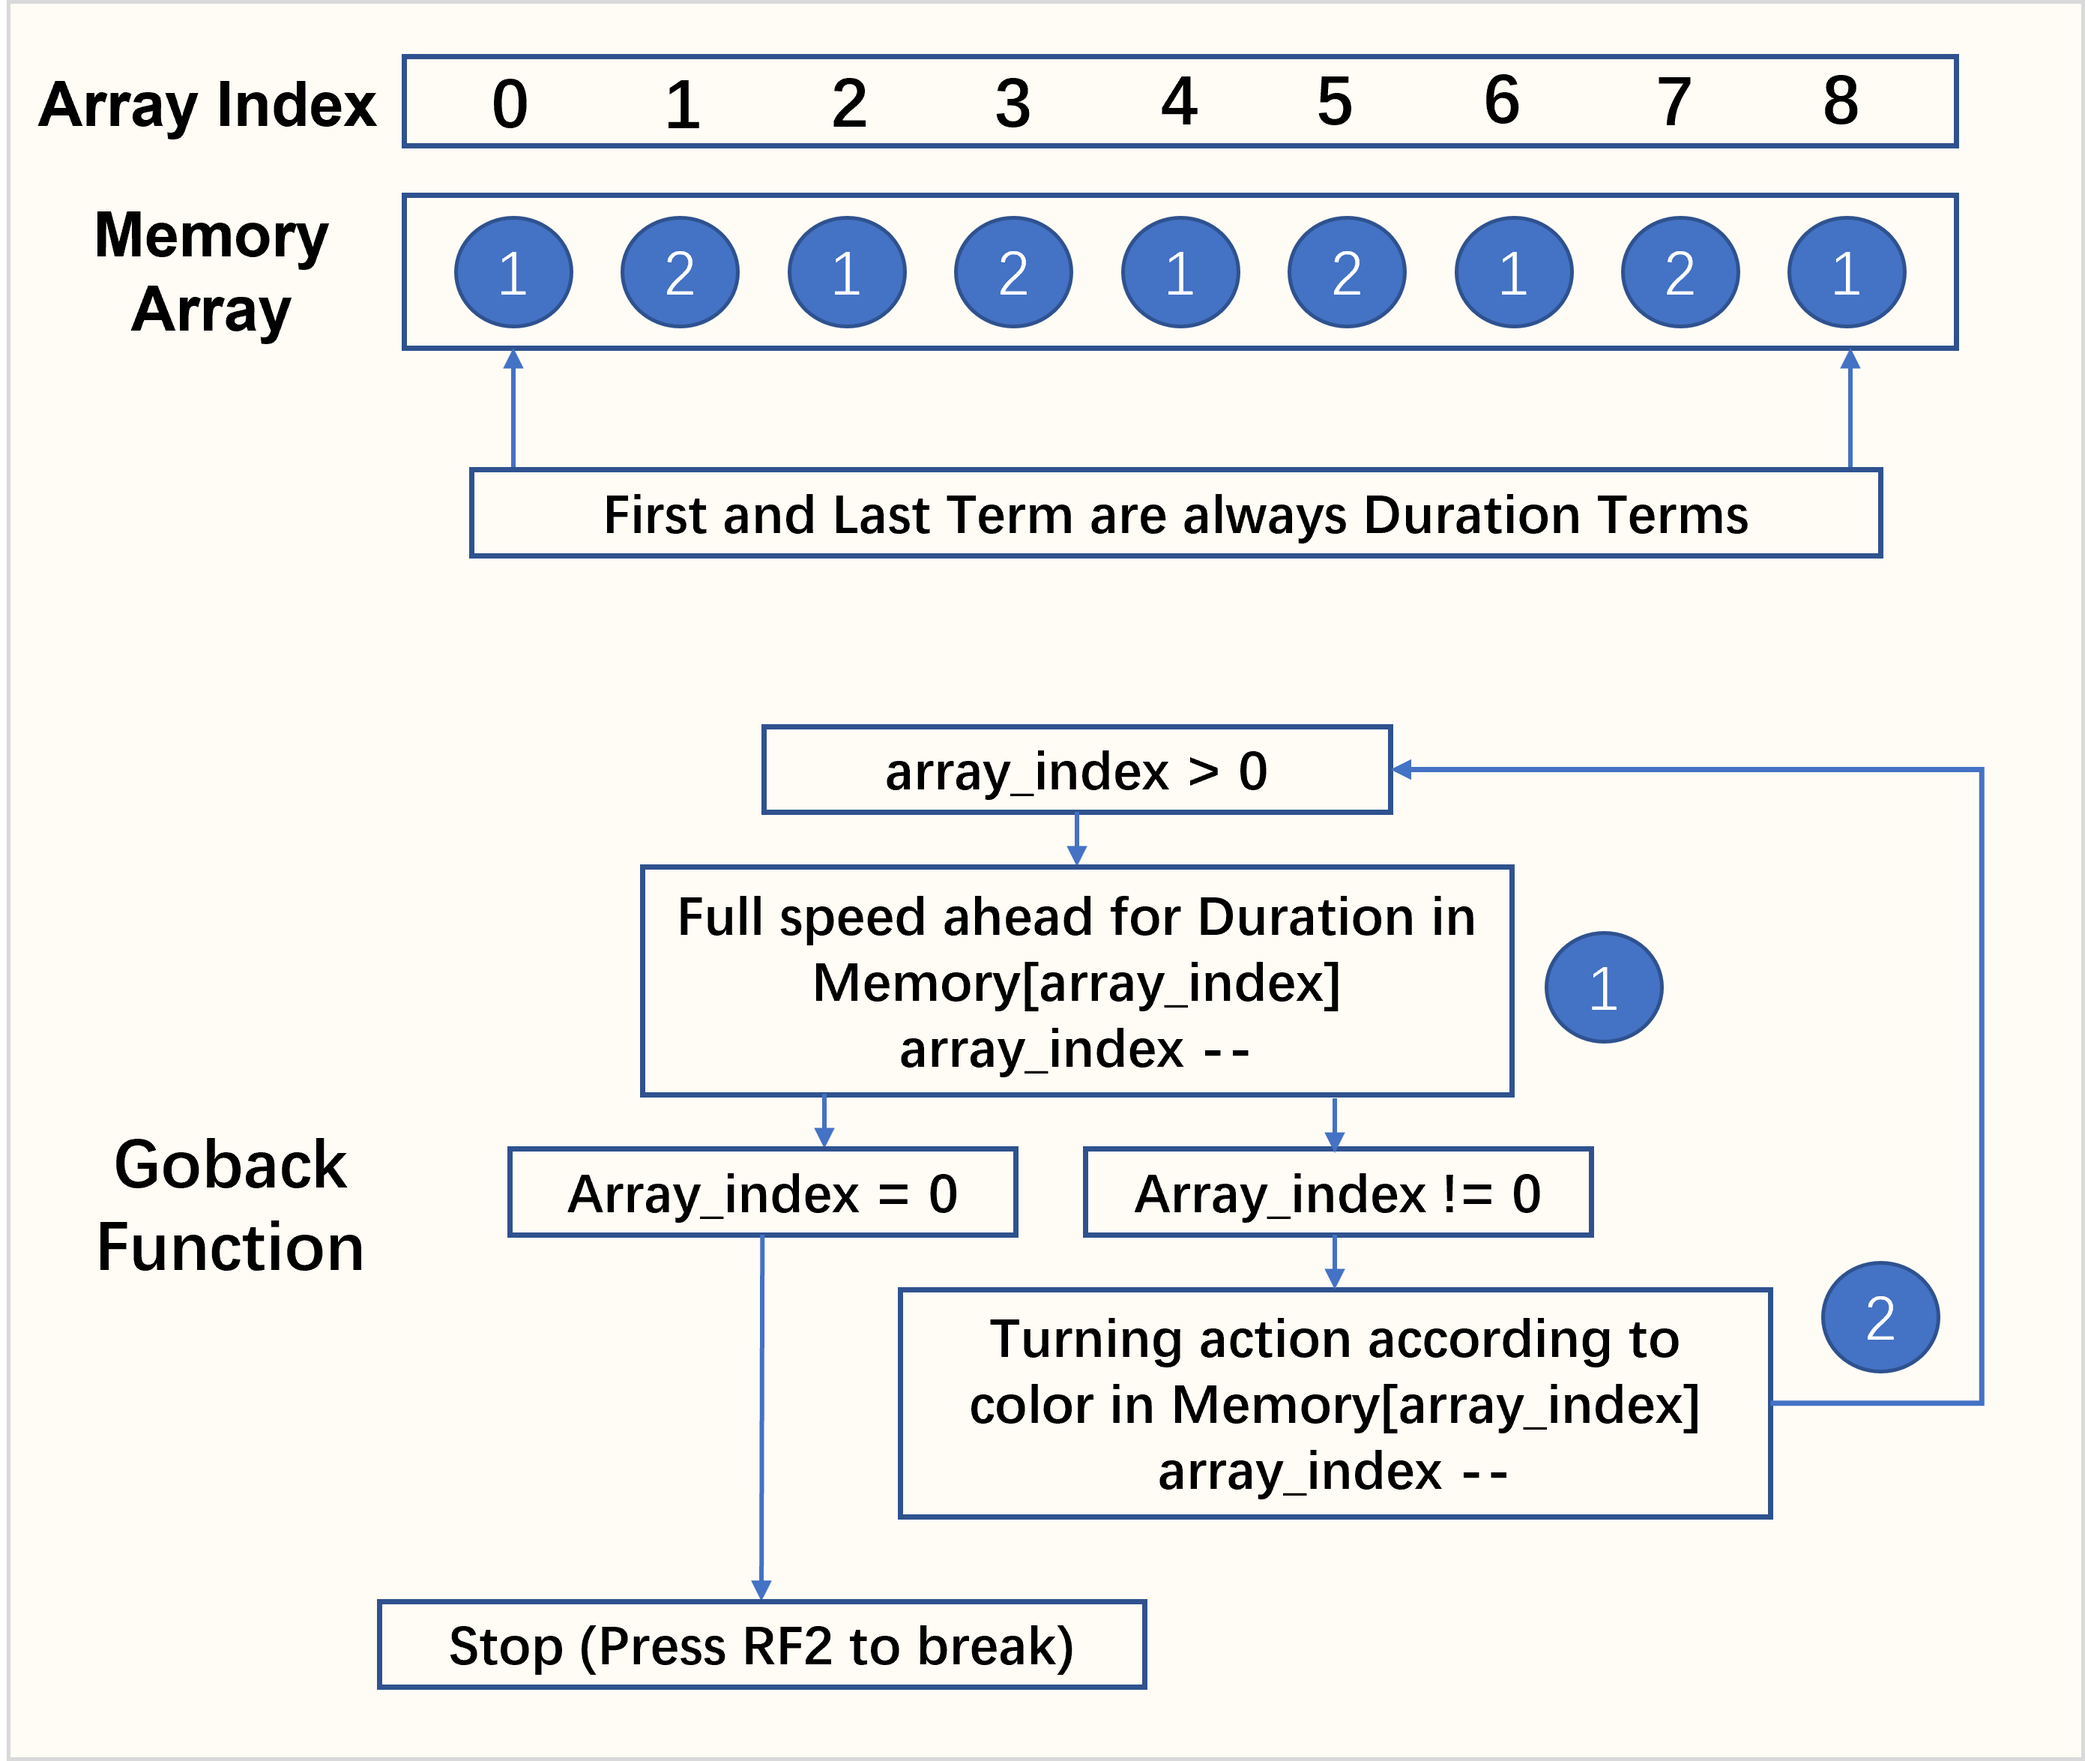
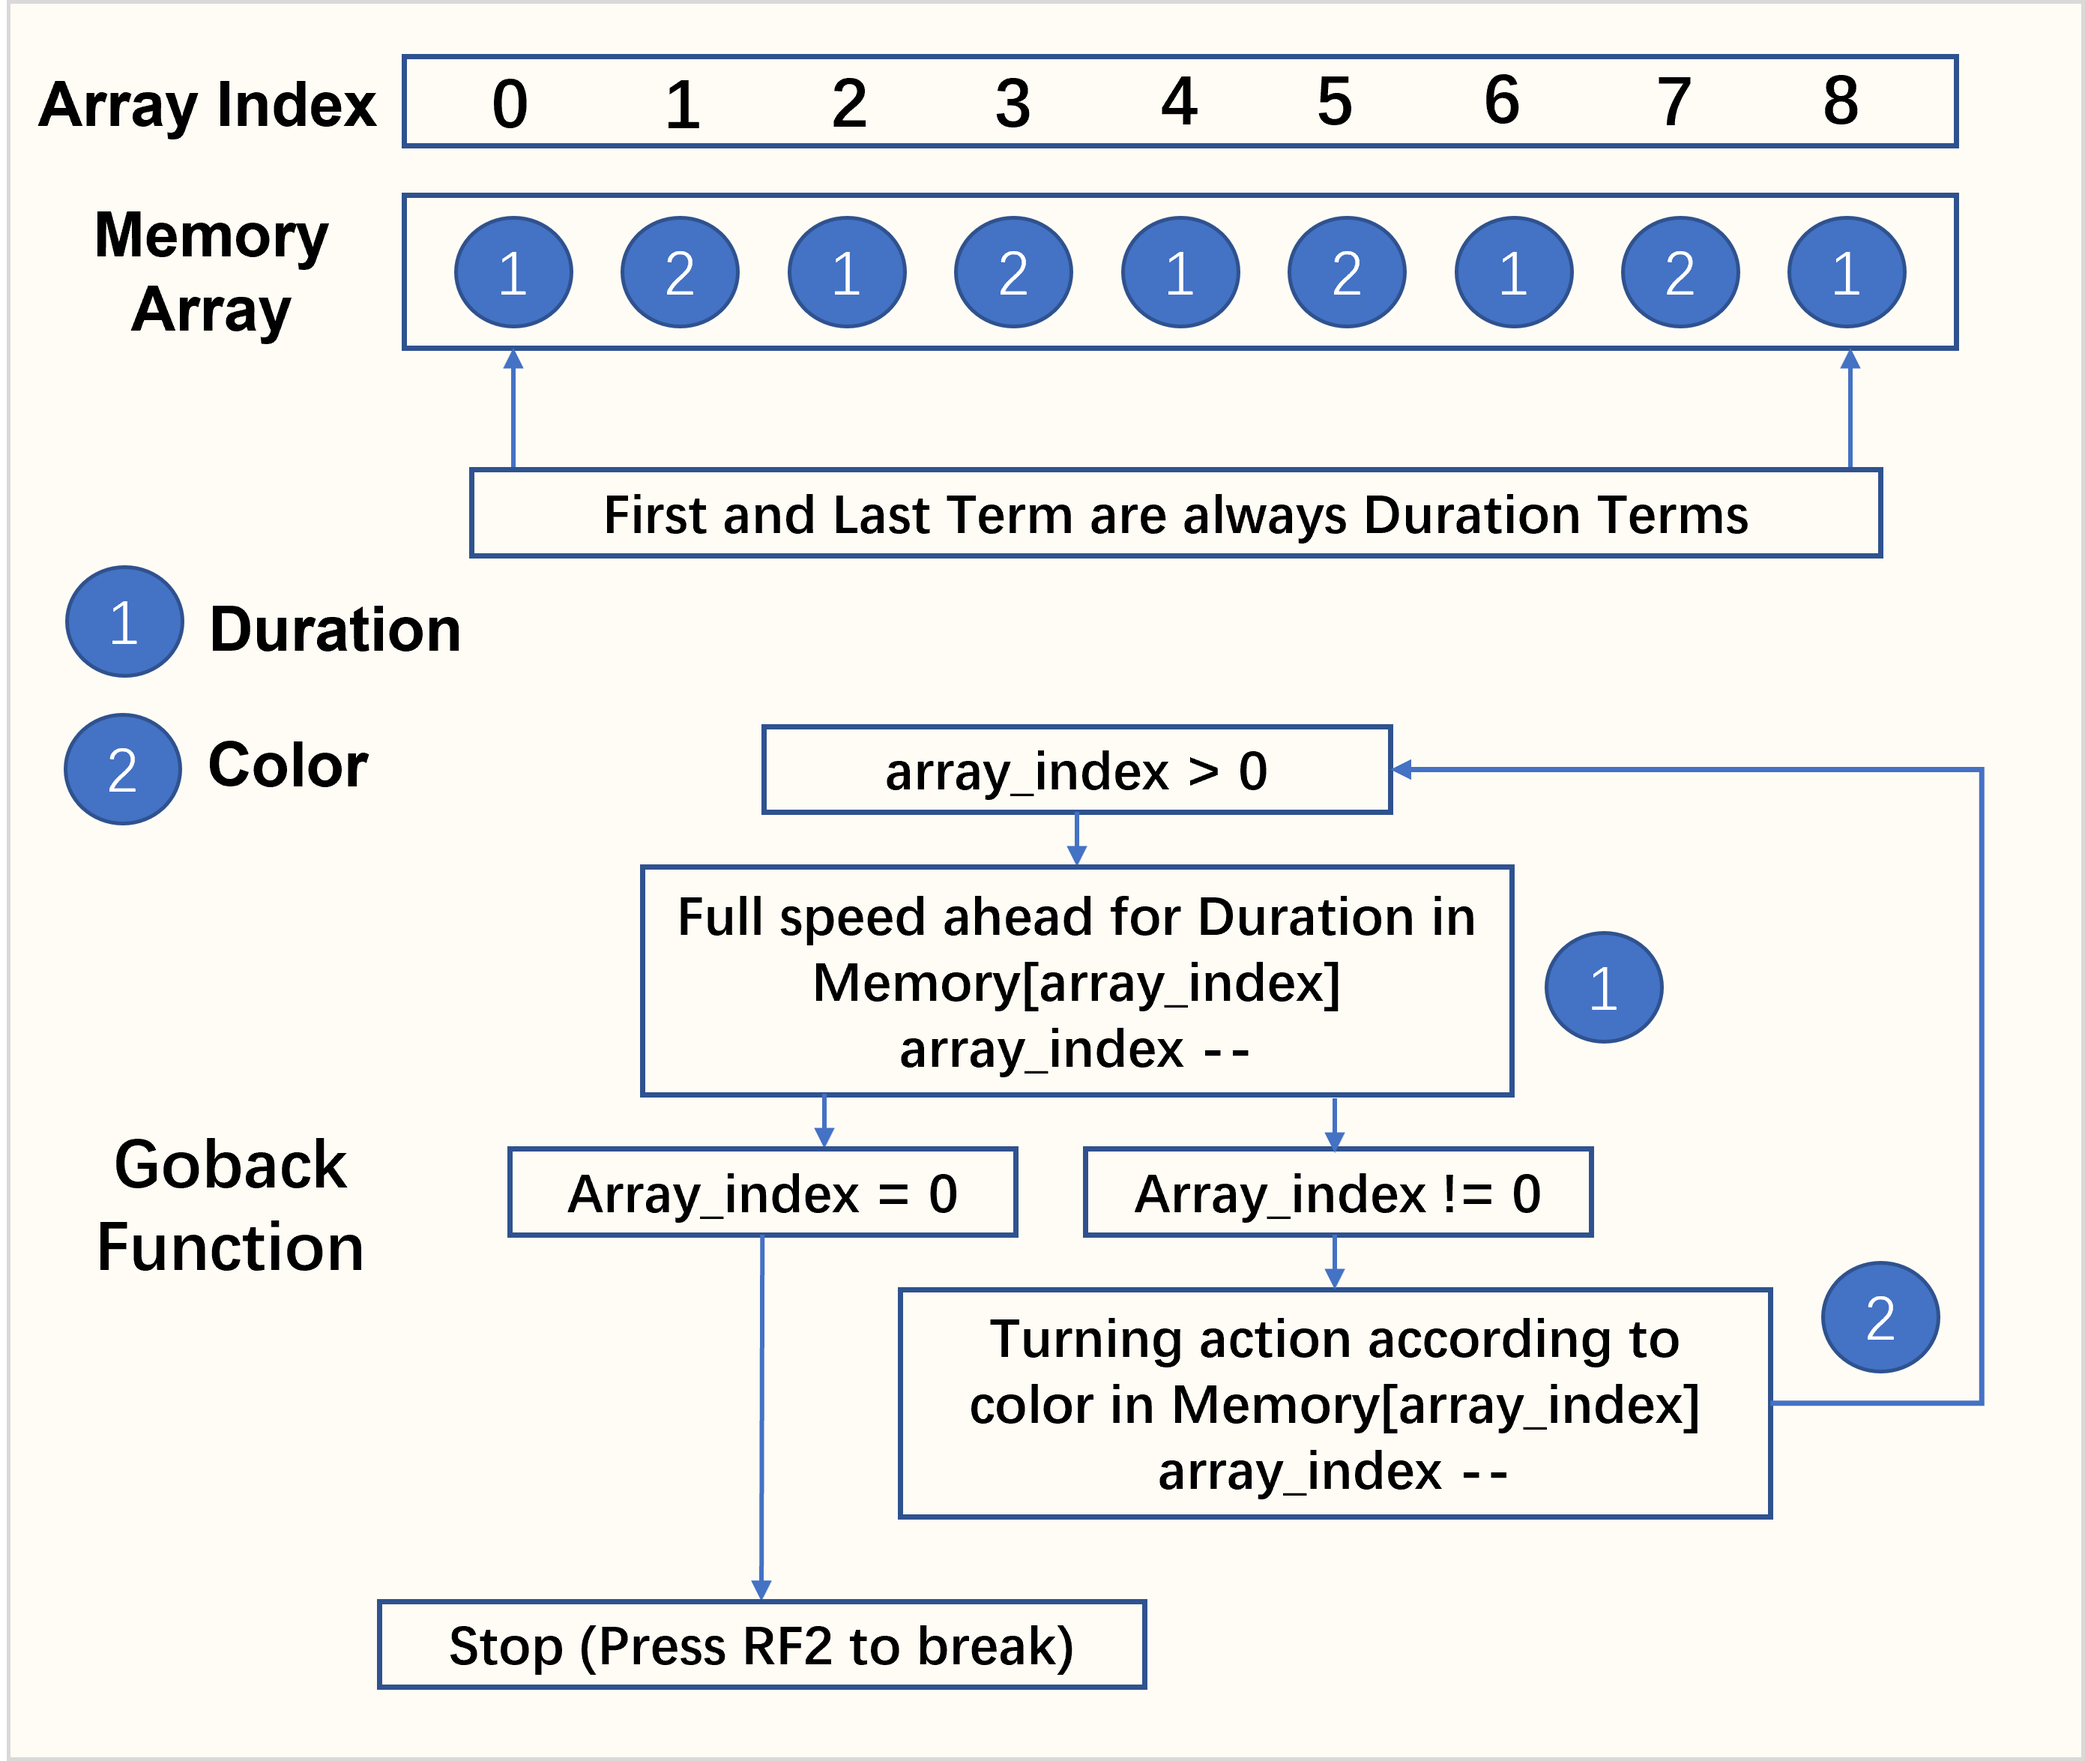
Adding pictures and explanations in README

Changed region(s): [[0.0309, 0.3108, 0.2164, 0.4662]]

diff --git a/README.md b/README.md
@@ -26,6 +26,10 @@ timers.c | Contains functions to record the time
 
 Table 1 shows 16 variables used in the program. This section aims to explain the meaning of these variables to prevent confusion when reading this document. The Color Click sensor can turn on 4 different lights, which are red light, green light, blue light, and white light (a combination of other 3 lights). Meanwhile, the sensor can also capture 4 different readings, which are R, G, B and C. In total, 16 variables in Table 1 can be generated by switching on different lights and obtaining different readings. For example, BR means turning on the blue light and capturing the R reading; CB means turning on the white light and capturing the B reading. 
 
+## General Logic
+
+![main function logic](gifs/Main_Funciton_General.png)
+
 ## Program setup 
 
 When the buggy is switched on, some calibrations are required.  
@@ -43,19 +47,17 @@ When RF3 is pressed, the ambient light measurement will be triggered, and the CC
 After the measurement of the ambient light, the user can choose to start the maze directly by pressing the RF2. Optionally, the user can press RF3 to trigger the motor power calibration. During the motor power calibration, both LED RD7 and RH3 will turn on. The user can press RF2 to increase the turning sensitivity or press RF3 to decrease the turning sensitivity. After setting the turning sensitivity, the user can press both RF2 and RF3 to trigger the test function. The buggy will turn left and right multiple times to demonstrate the turning effect after changing the sensitivity. Once the testing function is completed, the user can press RF2 to start the maze or press RF3 again to recalibrate the motor. 
 
 
-![main function logic](gifs/Main_Funciton_General.png)
-
 ## Methodology 
 
 ### Detect-wall function 
 
-[Relevant files ] 
+[Relevant files: color.c] 
 
 The detect-wall function allows the buggy to stop moving when detecting the presence of a colored card or wall. When a card is detected, the function will set the stop_signal to 1, which will trigger the color detection function and further movements. This effect is achieved by detecting the ambient light. During the program setup stage, the ambient light is measured and stored in a CC value (see table X). When the buggy approaches a card, due to the increase in reflection, the CC value measured by the buggy will increase. When the ambient light exceeds the 1.1 times of the CC value measured at the setup stage, the stop_signal will be changed from 0 to 1, instructing the buggy to stop. 
 
 ### Color detection function 
 
-[Relevant files ] 
+[Relevant files: color.c] 
 
 The color-detection is achieved by analyzing the RGBC data with RGBC lights. When detecting color, we switched on the red, green, and blue lights consecutively on every colored card and measured the R, G and B data from the Color Click. For each card, we will obtain 9 different data as shown in table X (RR, RG, RB, BR, BG, BB, GR, GB, GG). The color detection algorithm is designed by analyzing the 9 variables. To reduce the influence of ambient light, only the ratios between the RGBC data of the colored card and the RGBC data of the white card are stored.  
 
@@ -63,11 +65,31 @@ The color-detection is achieved by analyzing the RGBC data with RGBC lights. Whe
 
 ### Motor turning 
 
-[Relevant files] 
+[Relevant files: motor.c] 
 
 The most basic turning angle is 45 degrees. Turning 90 degrees requires repeating the turning function twice and turning 135 degrees requires repeating the turning function thrice etc. This method is beneficial because we only need to calibrate the motor setting for one angle. As long as the 45-degree turning is accurate, 90, 135 and 180 degrees will also be accurate. The turning sensitivity can be adjusted and tested by using the calibration function in program setup. 
 
+## Forward movement memory
 
+[Relevant files: main.c] 
+
+![Memory Recording logic](gifs/Memory_Recording.png)
+
+The timer starts right before the buggy moves forward. The starting time is recorded at the same time as the timer is started. Once the card/wall is detected, the buggy will stop. The timer is also stopped and stop time is recorded. The duration of forward movement (stop time ? start time) compared to 1 second. If the duration is larger than 1 second, the forward movement duration is valid and will be recorded in the memory array at the current array index. The array index is then plus 1 for next recording. If the duration is less than 1 second, the forward movement is considered as an accident, and it will not be recorded in the memory array. If the accident happens more than 5 times, the buggy is identified as lost, it will call the goback function and go back to the starting point. 
+
+## Turning memory
+
+[Relevant files: movement.c] 
+
+After the color card is detected and verified, the turning action is taken according to the color. If color is white, goback function is called and the buggy will go back to the starting point. If it is other color, the turning action will be recorded in the memory array at the current array index. The array index is then plus 1 for next recording. After that, color and stop signal are cleared. The loop repeats, and timer is started again for duration recording purposes. 
+
+## Goback function
+
+[Relevant files: movement.c] 
+
+![Goback logic](gifs/Goback.png)
+
+From forward movement memory and turning memory logic, the first and the last term of the memory array are always duration terms. Before starting the loop, read the memory array for the current array index(memory[array_index]), and it should represent the last term (duration term) of the memory array. Ask buggy to move forward for the duration memorized, and minus 1 array index for next reading. Read the memory array for the current array index(memory[array_index]), and it should represent the last term (color term) of the memory array. Ask buggy to turn certain angles according to the color term, and minus 1 array index for next reading. The loop repeats until array index == 0. In this case, all data in the memory array has been read, and the car will stop. Press RF2 to start the buggy, it will go the main function, recording and detecting again. 
 
 ## Challenge brief
 
